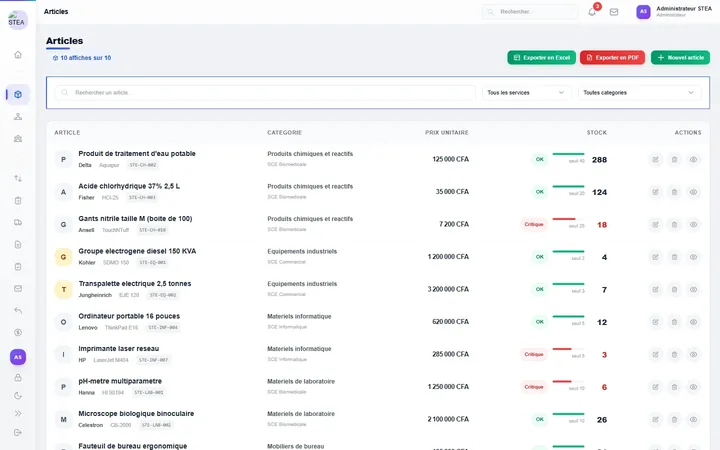
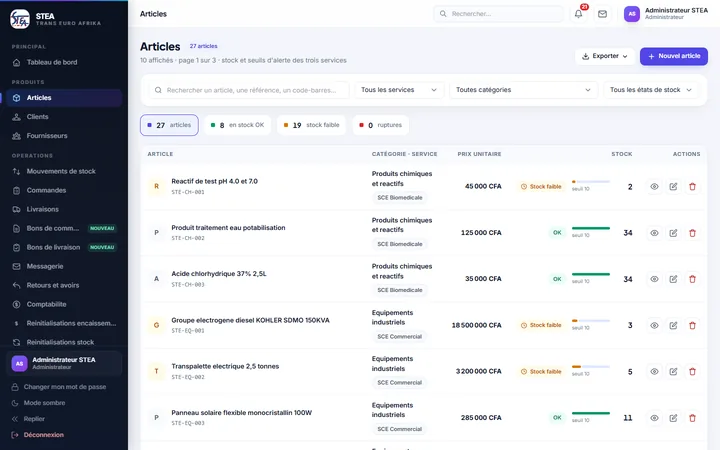
Captures de STEA refaites sur une instance isolée avec un jeu de données représentatif
- 8 écrans en 1440×900 (+ variantes 720/1080) et le tableau de bord mobile en 780×1688,
  pris avec Playwright sur une instance dédiée (port 8081, base jetable, jeu de
  démonstration du profil dev enrichi par l'API : 38 mouvements sur 30 jours,
  11 commandes, 10 livraisons, 8 règles de réapprovisionnement, 21 notifications)
- Livraisons et réapprovisionnement, désormais garnis, reviennent dans l'étude de cas
  (grille de 8 captures sur 4 colonnes)
- Aucune donnée réelle de l'entreprise : clients, bons et mouvements sont fictifs

Closes #7

diff --git a/stea.html b/stea.html
@@ -35,7 +35,7 @@
   <!-- Police chargée sans bloquer le rendu (préchargement, puis activation) ; icônes : sprite SVG local assets/icons.svg -->
   <link rel="preload" href="https://fonts.googleapis.com/css2?family=Fraunces:ital,opsz,wght@0,9..144,500;0,9..144,600;1,9..144,500&family=Plus+Jakarta+Sans:wght@400;500;600;700&family=JetBrains+Mono:wght@500&display=swap" as="style" onload="this.onload=null;this.rel='stylesheet'">
   <noscript><link rel="stylesheet" href="https://fonts.googleapis.com/css2?family=Fraunces:ital,opsz,wght@0,9..144,500;0,9..144,600;1,9..144,500&family=Plus+Jakarta+Sans:wght@400;500;600;700&family=JetBrains+Mono:wght@500&display=swap"></noscript>
-  <link rel="stylesheet" href="styles.css?v=9">
+  <link rel="stylesheet" href="styles.css?v=10">
 </head>
 <body>
   <a class="skip-link" href="#contenu">Aller au contenu</a>
@@ -253,6 +253,8 @@
           <figure class="reveal"><img src="assets/stea/articles-liste-desktop.webp" srcset="assets/stea/articles-liste-desktop-720.webp 720w, assets/stea/articles-liste-desktop-1080.webp 1080w, assets/stea/articles-liste-desktop.webp 1440w" sizes="(max-width: 860px) calc(100vw - 32px), 360px" alt="Liste des articles de STEA" width="1440" height="900" loading="lazy"><figcaption>Articles — liste avec seuils d’alerte, prix et niveaux de stock</figcaption></figure>
           <figure class="reveal"><img src="assets/stea/mouvements-liste-desktop.webp" srcset="assets/stea/mouvements-liste-desktop-720.webp 720w, assets/stea/mouvements-liste-desktop-1080.webp 1080w, assets/stea/mouvements-liste-desktop.webp 1440w" sizes="(max-width: 860px) calc(100vw - 32px), 360px" alt="Mouvements de stock de STEA" width="1440" height="900" loading="lazy"><figcaption>Mouvements — entrées, sorties, transferts et ajustements de stock</figcaption></figure>
           <figure class="reveal"><img src="assets/stea/bons-de-commande-liste-desktop.webp" srcset="assets/stea/bons-de-commande-liste-desktop-720.webp 720w, assets/stea/bons-de-commande-liste-desktop-1080.webp 1080w, assets/stea/bons-de-commande-liste-desktop.webp 1440w" sizes="(max-width: 860px) calc(100vw - 32px), 360px" alt="Bons de commande de STEA" width="1440" height="900" loading="lazy"><figcaption>Bons de commande — suivi des achats fournisseurs et de leurs statuts</figcaption></figure>
+          <figure class="reveal"><img src="assets/stea/livraisons-liste-desktop.webp" srcset="assets/stea/livraisons-liste-desktop-720.webp 720w, assets/stea/livraisons-liste-desktop-1080.webp 1080w, assets/stea/livraisons-liste-desktop.webp 1440w" sizes="(max-width: 860px) calc(100vw - 32px), 360px" alt="Livraisons de STEA" width="1440" height="900" loading="lazy"><figcaption>Livraisons — carnet des expéditions, statuts et documents</figcaption></figure>
+          <figure class="reveal"><img src="assets/stea/reapprovisionnement-liste-desktop.webp" srcset="assets/stea/reapprovisionnement-liste-desktop-720.webp 720w, assets/stea/reapprovisionnement-liste-desktop-1080.webp 1080w, assets/stea/reapprovisionnement-liste-desktop.webp 1440w" sizes="(max-width: 860px) calc(100vw - 32px), 360px" alt="Réapprovisionnement de STEA" width="1440" height="900" loading="lazy"><figcaption>Réapprovisionnement — règles de seuil et articles à commander</figcaption></figure>
           <figure class="reveal"><img src="assets/stea/notifications-vue-desktop.webp" srcset="assets/stea/notifications-vue-desktop-720.webp 720w, assets/stea/notifications-vue-desktop-1080.webp 1080w, assets/stea/notifications-vue-desktop.webp 1440w" sizes="(max-width: 860px) calc(100vw - 32px), 360px" alt="Notifications de STEA" width="1440" height="900" loading="lazy"><figcaption>Notifications — alertes de stock critique et messagerie interne</figcaption></figure>
         </div>
       </div>
@@ -346,6 +348,6 @@
     <svg class="icon" aria-hidden="true" focusable="false"><use href="assets/icons.svg#arrow-up"></use></svg>
   </button>
 
-  <script src="script.js?v=9" defer></script>
+  <script src="script.js?v=10" defer></script>
 </body>
 </html>

diff --git a/404.html b/404.html
@@ -26,7 +26,7 @@
   <!-- Police chargée sans bloquer le rendu (préchargement, puis activation) ; icônes : sprite SVG local assets/icons.svg -->
   <link rel="preload" href="https://fonts.googleapis.com/css2?family=Fraunces:ital,opsz,wght@0,9..144,500;0,9..144,600;1,9..144,500&family=Plus+Jakarta+Sans:wght@400;500;600;700&family=JetBrains+Mono:wght@500&display=swap" as="style" onload="this.onload=null;this.rel='stylesheet'">
   <noscript><link rel="stylesheet" href="https://fonts.googleapis.com/css2?family=Fraunces:ital,opsz,wght@0,9..144,500;0,9..144,600;1,9..144,500&family=Plus+Jakarta+Sans:wght@400;500;600;700&family=JetBrains+Mono:wght@500&display=swap"></noscript>
-  <link rel="stylesheet" href="/Portfolio/styles.css?v=9">
+  <link rel="stylesheet" href="/Portfolio/styles.css?v=10">
 </head>
 <body>
   <a class="skip-link" href="#contenu">Aller au contenu</a>
@@ -88,6 +88,6 @@
     </div>
   </footer>
 
-  <script src="/Portfolio/script.js?v=9" defer></script>
+  <script src="/Portfolio/script.js?v=10" defer></script>
 </body>
 </html>

diff --git a/index.html b/index.html
@@ -58,7 +58,7 @@
   <!-- Police chargée sans bloquer le rendu (préchargement, puis activation) ; icônes : sprite SVG local assets/icons.svg -->
   <link rel="preload" href="https://fonts.googleapis.com/css2?family=Fraunces:ital,opsz,wght@0,9..144,500;0,9..144,600;1,9..144,500&family=Plus+Jakarta+Sans:wght@400;500;600;700&family=JetBrains+Mono:wght@500&display=swap" as="style" onload="this.onload=null;this.rel='stylesheet'">
   <noscript><link rel="stylesheet" href="https://fonts.googleapis.com/css2?family=Fraunces:ital,opsz,wght@0,9..144,500;0,9..144,600;1,9..144,500&family=Plus+Jakarta+Sans:wght@400;500;600;700&family=JetBrains+Mono:wght@500&display=swap"></noscript>
-  <link rel="stylesheet" href="styles.css?v=9">
+  <link rel="stylesheet" href="styles.css?v=10">
 </head>
 <body>
 
@@ -684,6 +684,6 @@
     <svg class="icon" aria-hidden="true" focusable="false"><use href="assets/icons.svg#arrow-up"></use></svg>
   </button>
 
-  <script src="script.js?v=9" defer></script>
+  <script src="script.js?v=10" defer></script>
 </body>
 </html>

diff --git a/styles.css b/styles.css
@@ -744,7 +744,7 @@ body.gallery-open { overflow: hidden; }
 .modules { display: grid; grid-template-columns: repeat(auto-fill, minmax(190px, 1fr)); gap: 10px; margin-top: 22px; }
 .modules li { display: flex; align-items: center; gap: 10px; padding: 10px 12px; border-radius: var(--radius-sm); background: var(--surface); border: 1px solid var(--border); font-size: 0.9rem; color: var(--text); }
 .modules li .icon { color: var(--primary); width: 18px; height: 18px; }
-.shots { display: grid; grid-template-columns: repeat(auto-fit, minmax(300px, 1fr)); gap: 18px; margin-top: 26px; }
+.shots { display: grid; grid-template-columns: repeat(auto-fit, minmax(250px, 1fr)); gap: 16px; margin-top: 26px; }
 .shots figure { margin: 0; border-radius: var(--radius); overflow: hidden; background: var(--surface); border: 1px solid var(--border); box-shadow: var(--shadow-sm); }
 .shots img { display: block; width: 100%; height: auto; }
 .shots figcaption { padding: 12px 14px; font-size: 0.88rem; color: var(--text-2); border-top: 1px solid var(--border); }
